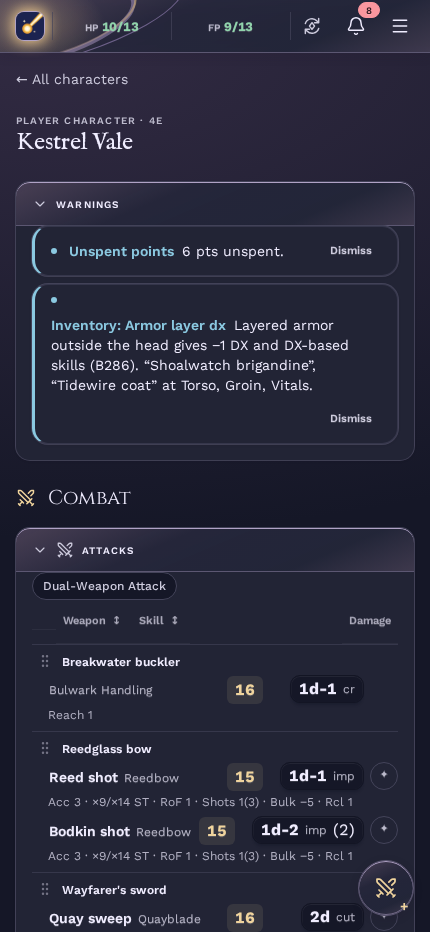
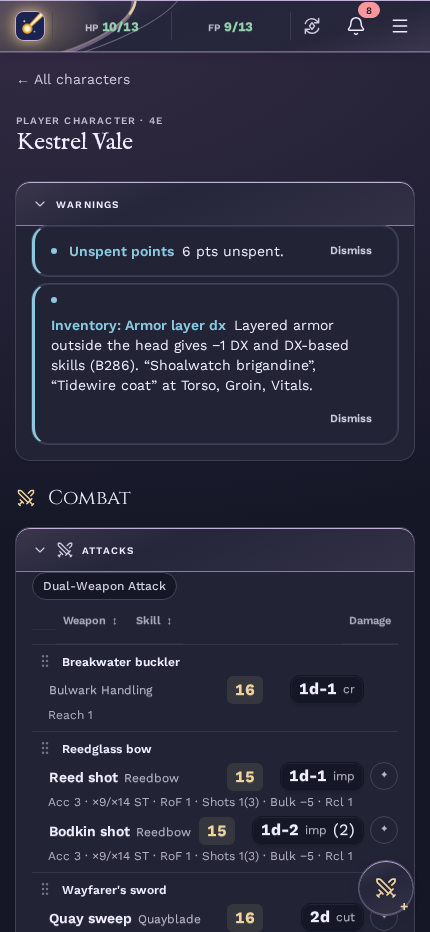
Refine the solar-glass theme treatments
- Paint each spell behind the header glass and reserve quieter reflections for secondary chrome.
- Restore the Corona crescent glint, simplify the active dock marker, and refresh the canonical screenshots.
- Wait for the responsive header portal before measuring its geometry in the viewport test.

Changed region(s): [[0.0, 0.0, 0.3023, 0.0933], [0.3023, 0.6534, 0.4233, 0.6845], [0.3023, 0.0, 0.3326, 0.0311]]

diff --git a/src/client/styles/theme.css b/src/client/styles/theme.css
@@ -138,14 +138,8 @@
   --glass-base: #fbefdbed;
   --glass-rim: #fff9e8;
   --glass-edge: #b89b71;
-  --glass-reflection: linear-gradient(
-    111deg,
-    #eed2a147,
-    #fffdf6b3 32%,
-    #e0bd8559 44%,
-    #fff9ecbf 46%,
-    #f5dfba55 74%
-  );
+  --header-reflection: linear-gradient(169deg, #fffdf6a6, #f5dfba22 33%, #fff7e60d 68%, #fffdf68c);
+  --glass-reflection: linear-gradient(169deg, #fffdf69c, #f5dfba33 36%, #fffdf66b);
   --spell-glow: #ffd592;
   --hp-out: #694265;
   --hp-warn: #79600d;
@@ -157,14 +151,13 @@
   --glass-base: #d4e7deed;
   --glass-rim: #ffffdf;
   --glass-edge: #81a5a0;
+  --header-reflection: linear-gradient(170deg, #f8fff38c, #e1fff414 43%, #9cbfb11f 74%, #ffffe77a);
   --glass-reflection: radial-gradient(
-    ellipse 85% 145% at 65% -66%,
-    transparent 76%,
-    #faffefbb 81%,
-    #9dbdb8a6 85%,
-    transparent 87%,
-    #faffefb3 90%,
-    transparent 92%
+    ellipse 86% 125% at 64% -59%,
+    transparent 79%,
+    #faffef7a 89%,
+    #9ebfbc4d 95%,
+    transparent
   );
   --spell-glow: #ffefb3;
   --hp-out: #694263;
@@ -179,9 +172,10 @@
     transparent
   );
   --glass-base: #25263bef;
-  --glass-rim: #b0a2c5;
+  --glass-rim: #c2afd8;
   --glass-edge: #5c5772;
-  --glass-reflection: linear-gradient(157deg, #584a60b3, transparent 37%, #20253788 74%, #53485d8c);
+  --header-reflection: linear-gradient(162deg, #7c68815c, transparent 37%, #28263840 74%, #66557659);
+  --glass-reflection: linear-gradient(157deg, #584a606e, transparent 37%, #53485d52);
   --spell-glow: #e9c58c;
   --hp-out: #c1a0ce;
   --hp-warn: #e8cf73;
@@ -204,8 +198,9 @@
   --hp-crit: var(--color-error);
   --shadow-1: 0 1px 3px #18111920, 0 0 0 1px var(--color-base-300);
   --shadow-2: 0 12px 36px -12px #15101d66, 0 0 0 1px var(--color-base-300);
-  --glass-shadow: inset 0 1px 0 var(--glass-rim), inset 0 -1px 0
-    color-mix(in srgb, var(--glass-rim) 55%, transparent), 0 3px 10px #22172826;
+  --glass-trim: inset 0 1px 0 var(--glass-rim), inset 0 -1px 0
+    color-mix(in srgb, var(--glass-rim) 45%, transparent);
+  --glass-shadow: var(--glass-trim), 0 3px 10px #22172826;
 }
 @media (min-width: 640px) {
   :root {
@@ -226,7 +221,6 @@
 .app-header {
   background: transparent;
   border-bottom-color: var(--glass-edge);
-  box-shadow: var(--glass-shadow);
 }
 .app-header::before {
   content: "";
@@ -234,20 +228,24 @@
   inset: 0;
   z-index: -1;
   pointer-events: none;
-  background: var(--spell-art) calc(var(--sun-x) - 42px) calc(var(--sun-y) - 40px) / 720px 120px
-    no-repeat,
+  /* The spell is seen through the glass. The reflection goes over the
+     drawing, but both sit under the readable header controls. */
+  background: var(--header-reflection), var(--spell-art) calc(var(--sun-x) - 42px)
+    calc(var(--sun-y) - 40px) / 720px 120px no-repeat,
     radial-gradient(
       ellipse 75px 48px at var(--sun-x) var(--sun-y),
       color-mix(in srgb, var(--spell-glow) 35%, transparent),
       transparent
-    ), var(--glass-reflection), var(--glass-base);
+    ), var(--glass-base);
+  box-shadow: var(--glass-shadow);
   backdrop-filter: blur(6px);
 }
 .app-header #character-status-header-slot > aside {
   background-color: transparent;
 }
 .app-header .brand-mark {
-  box-shadow: 0 0 0 1px var(--glass-rim), 0 0 14px 3px var(--spell-glow);
+  box-shadow: 0 0 0 1px var(--glass-rim), 0 0 12px 2px
+    color-mix(in srgb, var(--spell-glow) 72%, transparent);
 }
 
 /* Surface Tailwind utilities for the app-level tokens. */
@@ -413,7 +411,7 @@ body {
 .fold-heading,
 .library-group-heading {
   background: var(--glass-reflection), var(--glass-base);
-  box-shadow: inset 0 1px 0 var(--glass-rim), inset 0 -1px 0 var(--glass-edge);
+  box-shadow: var(--glass-trim), inset 0 -1px 0 var(--glass-edge);
 }
 .stat-band,
 .fold-heading {

diff --git a/tests/e2e/header-menu-visual-viewport.spec.ts b/tests/e2e/header-menu-visual-viewport.spec.ts
@@ -138,6 +138,8 @@ test('account and compact character menus remain touch reachable through resize 
     await page.setViewportSize(viewport);
     await cdp.send('Emulation.setPageScaleFactor', { pageScaleFactor: 1 });
     await settleViewport(page);
+    // Resizing across the desktop breakpoint swaps the portaled brand link.
+    await expect(compactNav).toHaveCount(viewport.width >= 1280 ? 0 : 1);
 
     const brandLink = page.locator('header.app-header').getByRole('link', { name: 'Sunbolt home' });
     const hpTrigger = page.getByRole('button', { name: /^Adjust HP,/ });
@@ -149,7 +151,6 @@ test('account and compact character menus remain touch reachable through resize 
     expect((brandBounds?.x ?? 0) + (brandBounds?.width ?? 0)).toBeLessThanOrEqual(hpBounds?.x ?? 0);
 
     if (viewport.width >= 1280) {
-      await expect(compactNav).toHaveCount(0);
       await expect(page.getByRole('navigation', { name: 'Primary navigation' })).toBeVisible();
       await expect(
         page

diff --git a/src/client/features/home/LandingPage.tsx b/src/client/features/home/LandingPage.tsx
@@ -83,7 +83,7 @@ export function LandingPage() {
             <figure className="w-full max-w-xs shrink-0 overflow-hidden rounded-box border border-base-300 shadow-arcane-lg">
               <img
                 src="/screenshots/combat-mobile.png"
-                alt="Sunbolt combat sheet with HP, FP, attacks, and incoming attack controls."
+                alt="Sunbolt's mobile Combat sheet with HP and FP controls and a weapon attack list."
                 width="430"
                 height="932"
                 fetchPriority="high"

diff --git a/src/client/styles/components.css b/src/client/styles/components.css
@@ -526,8 +526,11 @@
 }
 .sheet-dock > .dock-active {
   color: var(--color-primary);
-  background: var(--color-base-100);
-  box-shadow: inset 0 0 0 1px var(--glass-edge);
+}
+.sheet-dock > .dock-active::after {
+  width: 1.5rem;
+  height: 2px;
+  border: 0;
 }
 .sheet-dock .dock-label {
   font-size: 0.75rem;

diff --git a/docs/screenshots/README.md b/docs/screenshots/README.md
@@ -5,14 +5,11 @@ root README links those exact files; the unauthenticated landing page serves
 those same assets at `/screenshots/`. Refresh them together by replacing the
 canonical files, never by adding a second copy under `docs/`.
 
-Captured on 2026-11-20 from `69be9e0` plus the solar-glass theme change
-(Heliolance, Daybreak Lens and Corona Obsidian) in this
-change. These are real Chromium screenshots, not mockups, captured from
-this checkout's isolated `gpc-2507003398` development stack at
-`http://localhost:23398`, using a freshly migrated and locally seeded
-`gurps_demo` database. All pictured accounts, characters, and campaigns come
-from the fictional [standard seed](../../bootstrap/README.md); no production
-account or campaign was used.
+Captured on 2026-11-20 from `fd51780` plus the solar-glass fidelity refinements.
+These are real Chromium screenshots, not mockups, captured from this checkout's
+isolated `gpc-2507003398` development stack at `http://localhost:23398`.
+All pictured accounts, characters, and campaigns come from the fictional
+[standard seed](../../bootstrap/README.md); no production account or campaign was used.
 
 | Canonical file | Surface | Theme | Image size |
 | --- | --- | --- | --- |
@@ -52,7 +49,7 @@ for the capture.
    account's password changed, set `SCREENSHOT_SEED_PASSWORD`. Do not use a real
    player's credentials. The script refuses a non-local base URL.
 5. Inspect every output at its actual dimensions. Verify that fonts, equipment,
-   armor, nested items, and the three-character roster loaded correctly; check
+   armor, nested items, and the six-character roster loaded correctly; check
    that sticky navigation does not overlap panel content. The script prints
    each PNG's dimensions. Update this provenance table and the landing page's
    image width/height attributes whenever the dimensions change.

diff --git a/docs/specs/interaction-design.md b/docs/specs/interaction-design.md
@@ -430,10 +430,12 @@ when the text contains no spaces.
 Long account names remain width-bounded in the shared header at all breakpoints;
 opening the account menu must not horizontally scroll the page. The home welcome
 heading wraps unbroken account names within its card.
-Heliolance uses the First Light treatment: a fine amber-edged beam against pale ivory.
-Daybreak Lens uses curved reflections on sea glass; Corona Obsidian uses a gold crescent
-against violet-black glass. The strongest effect belongs to the app header. Section
-bands and sheet navigation catch a reflection; data rows stay matte for contrast.
+Heliolance uses First Light: a narrow ivory beam with an amber edge. Daybreak Lens
+bends two highlights through sea glass; Corona Obsidian casts a gold crescent with
+a quieter violet afterimage. The spell sits behind the app header's translucent
+reflection, and its trailing light fades so it does not compete with the controls.
+Section bands and sheet navigation carry only a quieter reflection and a fine rim;
+rows, forms, and open menus stay matte.
 The brand mark (a link home, "Sunbolt home" in the compact bar) stays at the
 left of the header at every width as the origin of the light. `--sun-x`/`--sun-y` in `theme.css` are set per header
 state: 26/26px for the normal header below 640px, 42/30px from 640px, and

diff --git a/docs/specs/overview.md b/docs/specs/overview.md
@@ -265,9 +265,10 @@ unavailable mechanics hide their numbers. GM name links open the sheet in a new 
 
 - **Sheet navigation and icons.** A floating bottom daisyUI dock at widths of
   768px and above replaces the sheet tab bar, with etched outline icons, labels,
-  entry counts, and a violet active marker. Below 768px a bottom-right FAB shows
-  the active section icon and opens a balanced two-ring flower speed dial with
-  48px icon buttons for all available destinations. Each petal has a permanent label below
+  entry counts, and a short underline in the theme's primary color. Below 768px
+  a bottom-right FAB shows the active section icon and opens a balanced two-ring
+  flower speed dial with 48px icon buttons for all available destinations.
+  Each petal has a permanent label below
   its icon and a separate entry-count badge where applicable, with no tooltip.
   The wider rings keep labels apart and inside a 320px viewport;
   selecting a section closes the flower and focuses/scrolls its visible heading.

diff --git a/README.md b/README.md
@@ -29,7 +29,7 @@ explains why an existing installation can retain its previous icon.
 
 | Combat on your phone | Resolve incoming damage |
 | --- | --- |
-| ![Mobile combat sheet with HP and FP controls, posture, and maneuver selection.](public/screenshots/combat-mobile.png) | ![Mobile incoming-damage dialog showing 10 cutting damage against torso DR 8 yielding 3 injury.](public/screenshots/damage-mobile.png) |
+| ![Mobile combat sheet with HP and FP controls, a weapon attack list, and the section navigation button.](public/screenshots/combat-mobile.png) | ![Mobile incoming-damage dialog showing 10 cutting damage against torso DR 8 yielding 3 injury.](public/screenshots/damage-mobile.png) |
 
 ## A character sheet that does the bookkeeping
 
